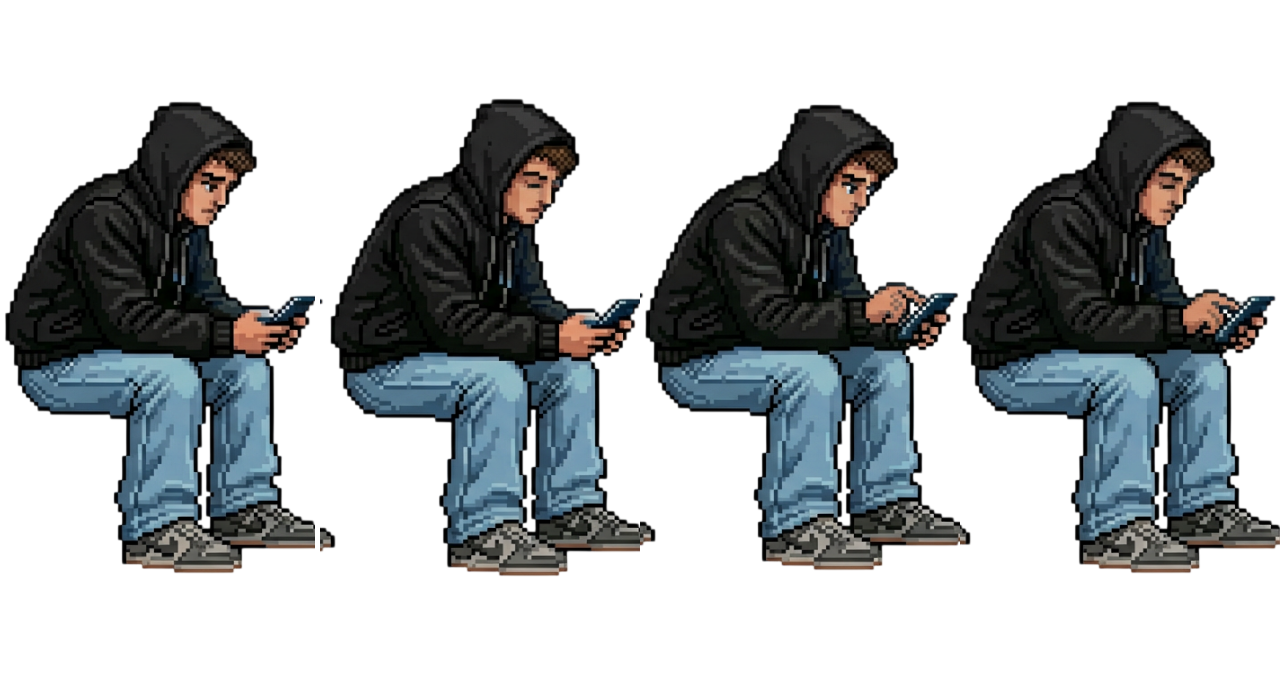
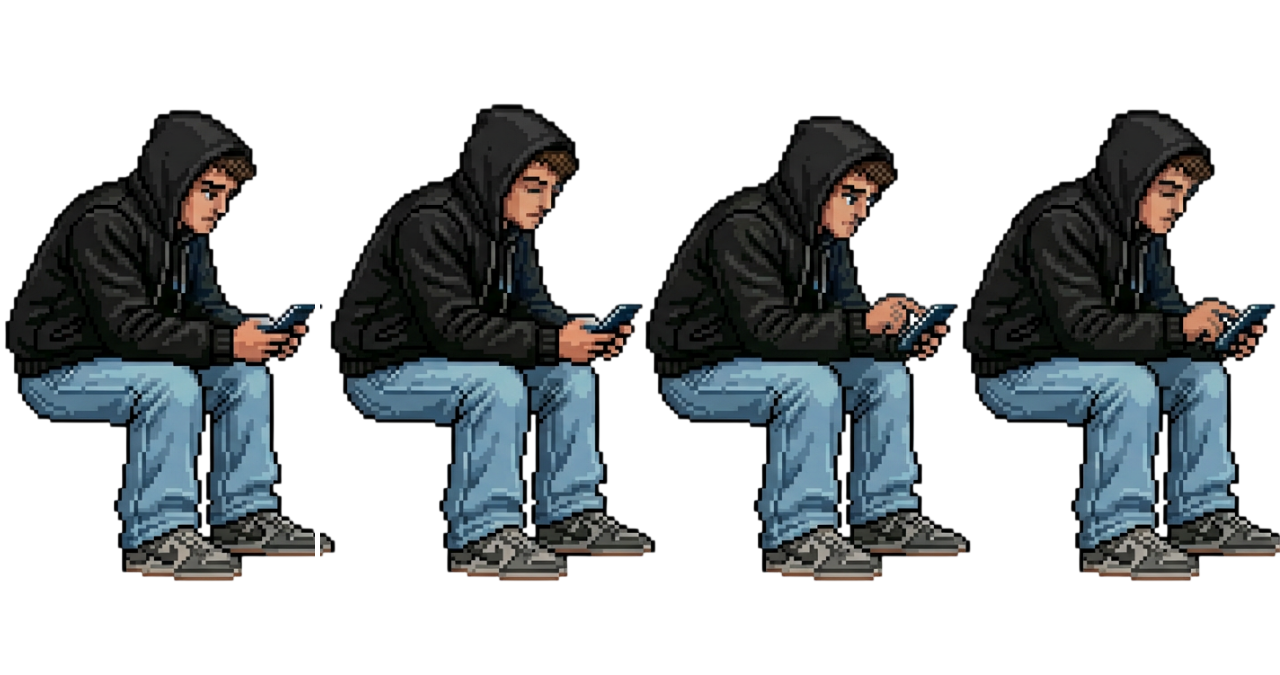
Improve sprite centering tool to use bottom-center anchor and re-process pigeons
- Rewrite center_sprites.py: two-pass algorithm that finds max_bottom
  across all frames in a sheet, then anchors each frame's content so
  its bottom edge aligns to that level (feet stay put)
- Horizontally: still centered within frame
- Restore originals from origin/main and re-process all 5 sheets
- Pigeon animations in PrologueScene unchanged (idle + takeoff work)

https://claude.ai/code/session_01BQ56NV5B9H5z5vRZ53MYJw

Changed region(s): [[0.0, 0.1244, 1.0, 0.8711], [0.3438, 0.1867, 0.375, 0.2178]]

diff --git a/tools/center_sprites.py b/tools/center_sprites.py
@@ -1,6 +1,7 @@
 #!/usr/bin/env python3
 """
-Утилита для центровки кадров в горизонтальных спрайт-листах.
+Утилита для выравнивания кадров в горизонтальных спрайт-листах
+по нижнему центру (Bottom-Center).
 
 Использование:
   python tools/center_sprites.py                        # по умолчанию: папка assets/images, 4 кадра
@@ -11,8 +12,11 @@
   1. Находит все PNG-файлы, содержащие "sheet" в имени.
   2. Разрезает каждый на N кадров (горизонтально).
   3. Вычисляет bounding box непрозрачных пикселей в каждом кадре.
-  4. Центрирует содержимое в кадре того же размера.
-  5. Склеивает обратно и перезаписывает исходный файл.
+  4. Находит максимальный нижний край (max_bottom) среди ВСЕХ кадров листа,
+     чтобы "ноги" персонажа оставались на одном уровне.
+  5. Горизонтально: центрирует содержимое.
+     Вертикально: фиксирует нижний край на уровне max_bottom.
+  6. Склеивает обратно и перезаписывает исходный файл.
 
 Требования: pip install Pillow
 """
@@ -25,23 +29,6 @@ from pathlib import Path
 from PIL import Image
 
 
-def center_frame(frame: Image.Image) -> Image.Image:
-    """Центрирует видимые пиксели кадра относительно его размеров."""
-    bbox = frame.getbbox()
-    if bbox is None:
-        return frame.copy()
-
-    cropped = frame.crop(bbox)
-    cw, ch = cropped.size
-    fw, fh = frame.size
-
-    new_frame = Image.new("RGBA", (fw, fh), (0, 0, 0, 0))
-    paste_x = (fw - cw) // 2
-    paste_y = (fh - ch) // 2
-    new_frame.paste(cropped, (paste_x, paste_y))
-    return new_frame
-
-
 def process_spritesheet(filepath: Path, num_frames: int) -> bool:
     """Обрабатывает один спрайт-лист. Возвращает True если файл изменён."""
     img = Image.open(filepath).convert("RGBA")
@@ -52,23 +39,50 @@ def process_spritesheet(filepath: Path, num_frames: int) -> bool:
         print(f"  ПРОПУСК: {filepath.name} — ширина {w} не делится на {num_frames} кадров")
         return False
 
-    centered_frames = []
+    # Первый проход: нарезаем кадры и находим bounding box каждого
+    frames = []
+    bboxes = []
     for i in range(num_frames):
         frame = img.crop((i * frame_w, 0, (i + 1) * frame_w, h))
-        centered = center_frame(frame)
-        centered_frames.append(centered)
+        frames.append(frame)
+        bboxes.append(frame.getbbox())  # (left, top, right, bottom) or None
+
+    # Находим максимальный нижний край среди всех кадров —
+    # все кадры будут выровнены так, чтобы низ контента был на этом уровне
+    max_bottom = 0
+    for bbox in bboxes:
+        if bbox is not None:
+            max_bottom = max(max_bottom, bbox[3])
+
+    # Второй проход: центрируем каждый кадр (горизонтально + привязка к низу)
+    centered_frames = []
+    for frame, bbox in zip(frames, bboxes):
+        if bbox is None:
+            centered_frames.append(frame.copy())
+            continue
+
+        cropped = frame.crop(bbox)
+        cw, ch = cropped.size
+
+        new_frame = Image.new("RGBA", (frame_w, h), (0, 0, 0, 0))
+        # Горизонтально: по центру кадра
+        paste_x = (frame_w - cw) // 2
+        # Вертикально: нижний край контента фиксирован на max_bottom
+        paste_y = max_bottom - ch
+        new_frame.paste(cropped, (paste_x, paste_y))
+        centered_frames.append(new_frame)
 
     result = Image.new("RGBA", (w, h), (0, 0, 0, 0))
     for i, frame in enumerate(centered_frames):
         result.paste(frame, (i * frame_w, 0))
 
     result.save(filepath)
-    print(f"  OK: {filepath.name} ({num_frames} кадров, {frame_w}×{h} каждый)")
+    print(f"  OK: {filepath.name} ({num_frames} кадров, {frame_w}×{h}, bottom={max_bottom})")
     return True
 
 
 def main() -> None:
-    parser = argparse.ArgumentParser(description="Центровка кадров в спрайт-листах")
+    parser = argparse.ArgumentParser(description="Выравнивание кадров в спрайт-листах (Bottom-Center)")
     parser.add_argument(
         "--path",
         type=str,
